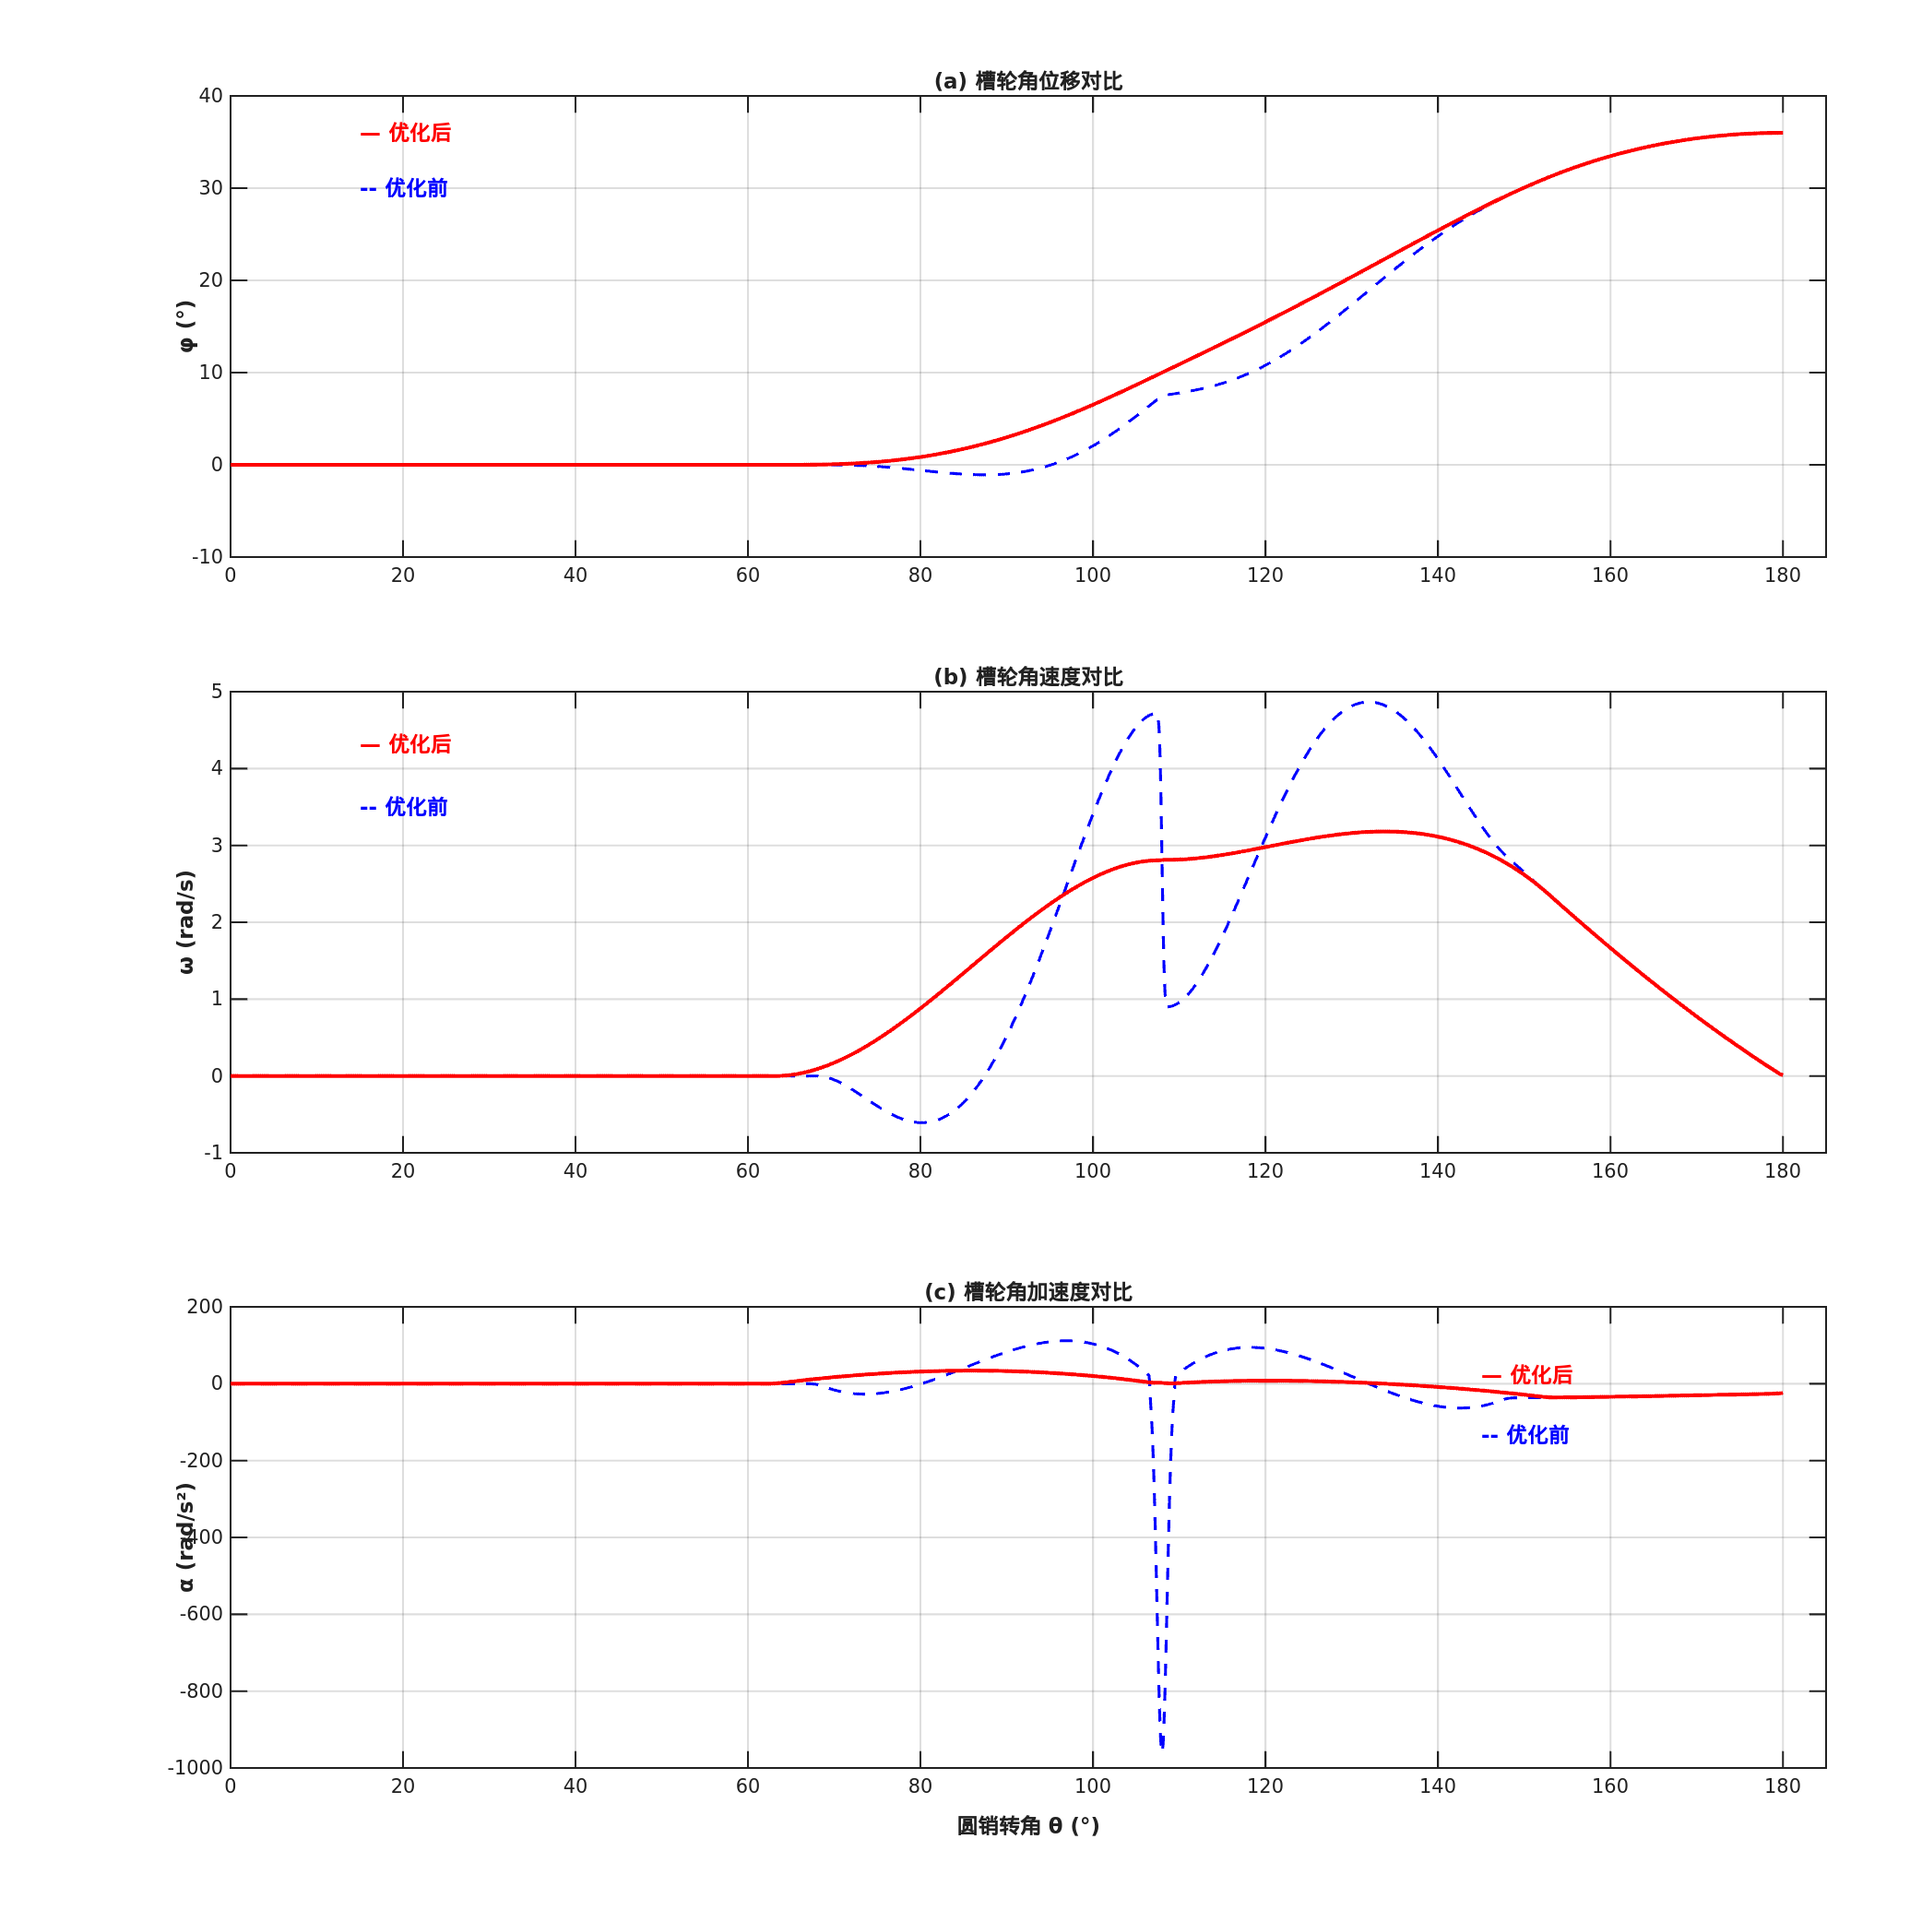
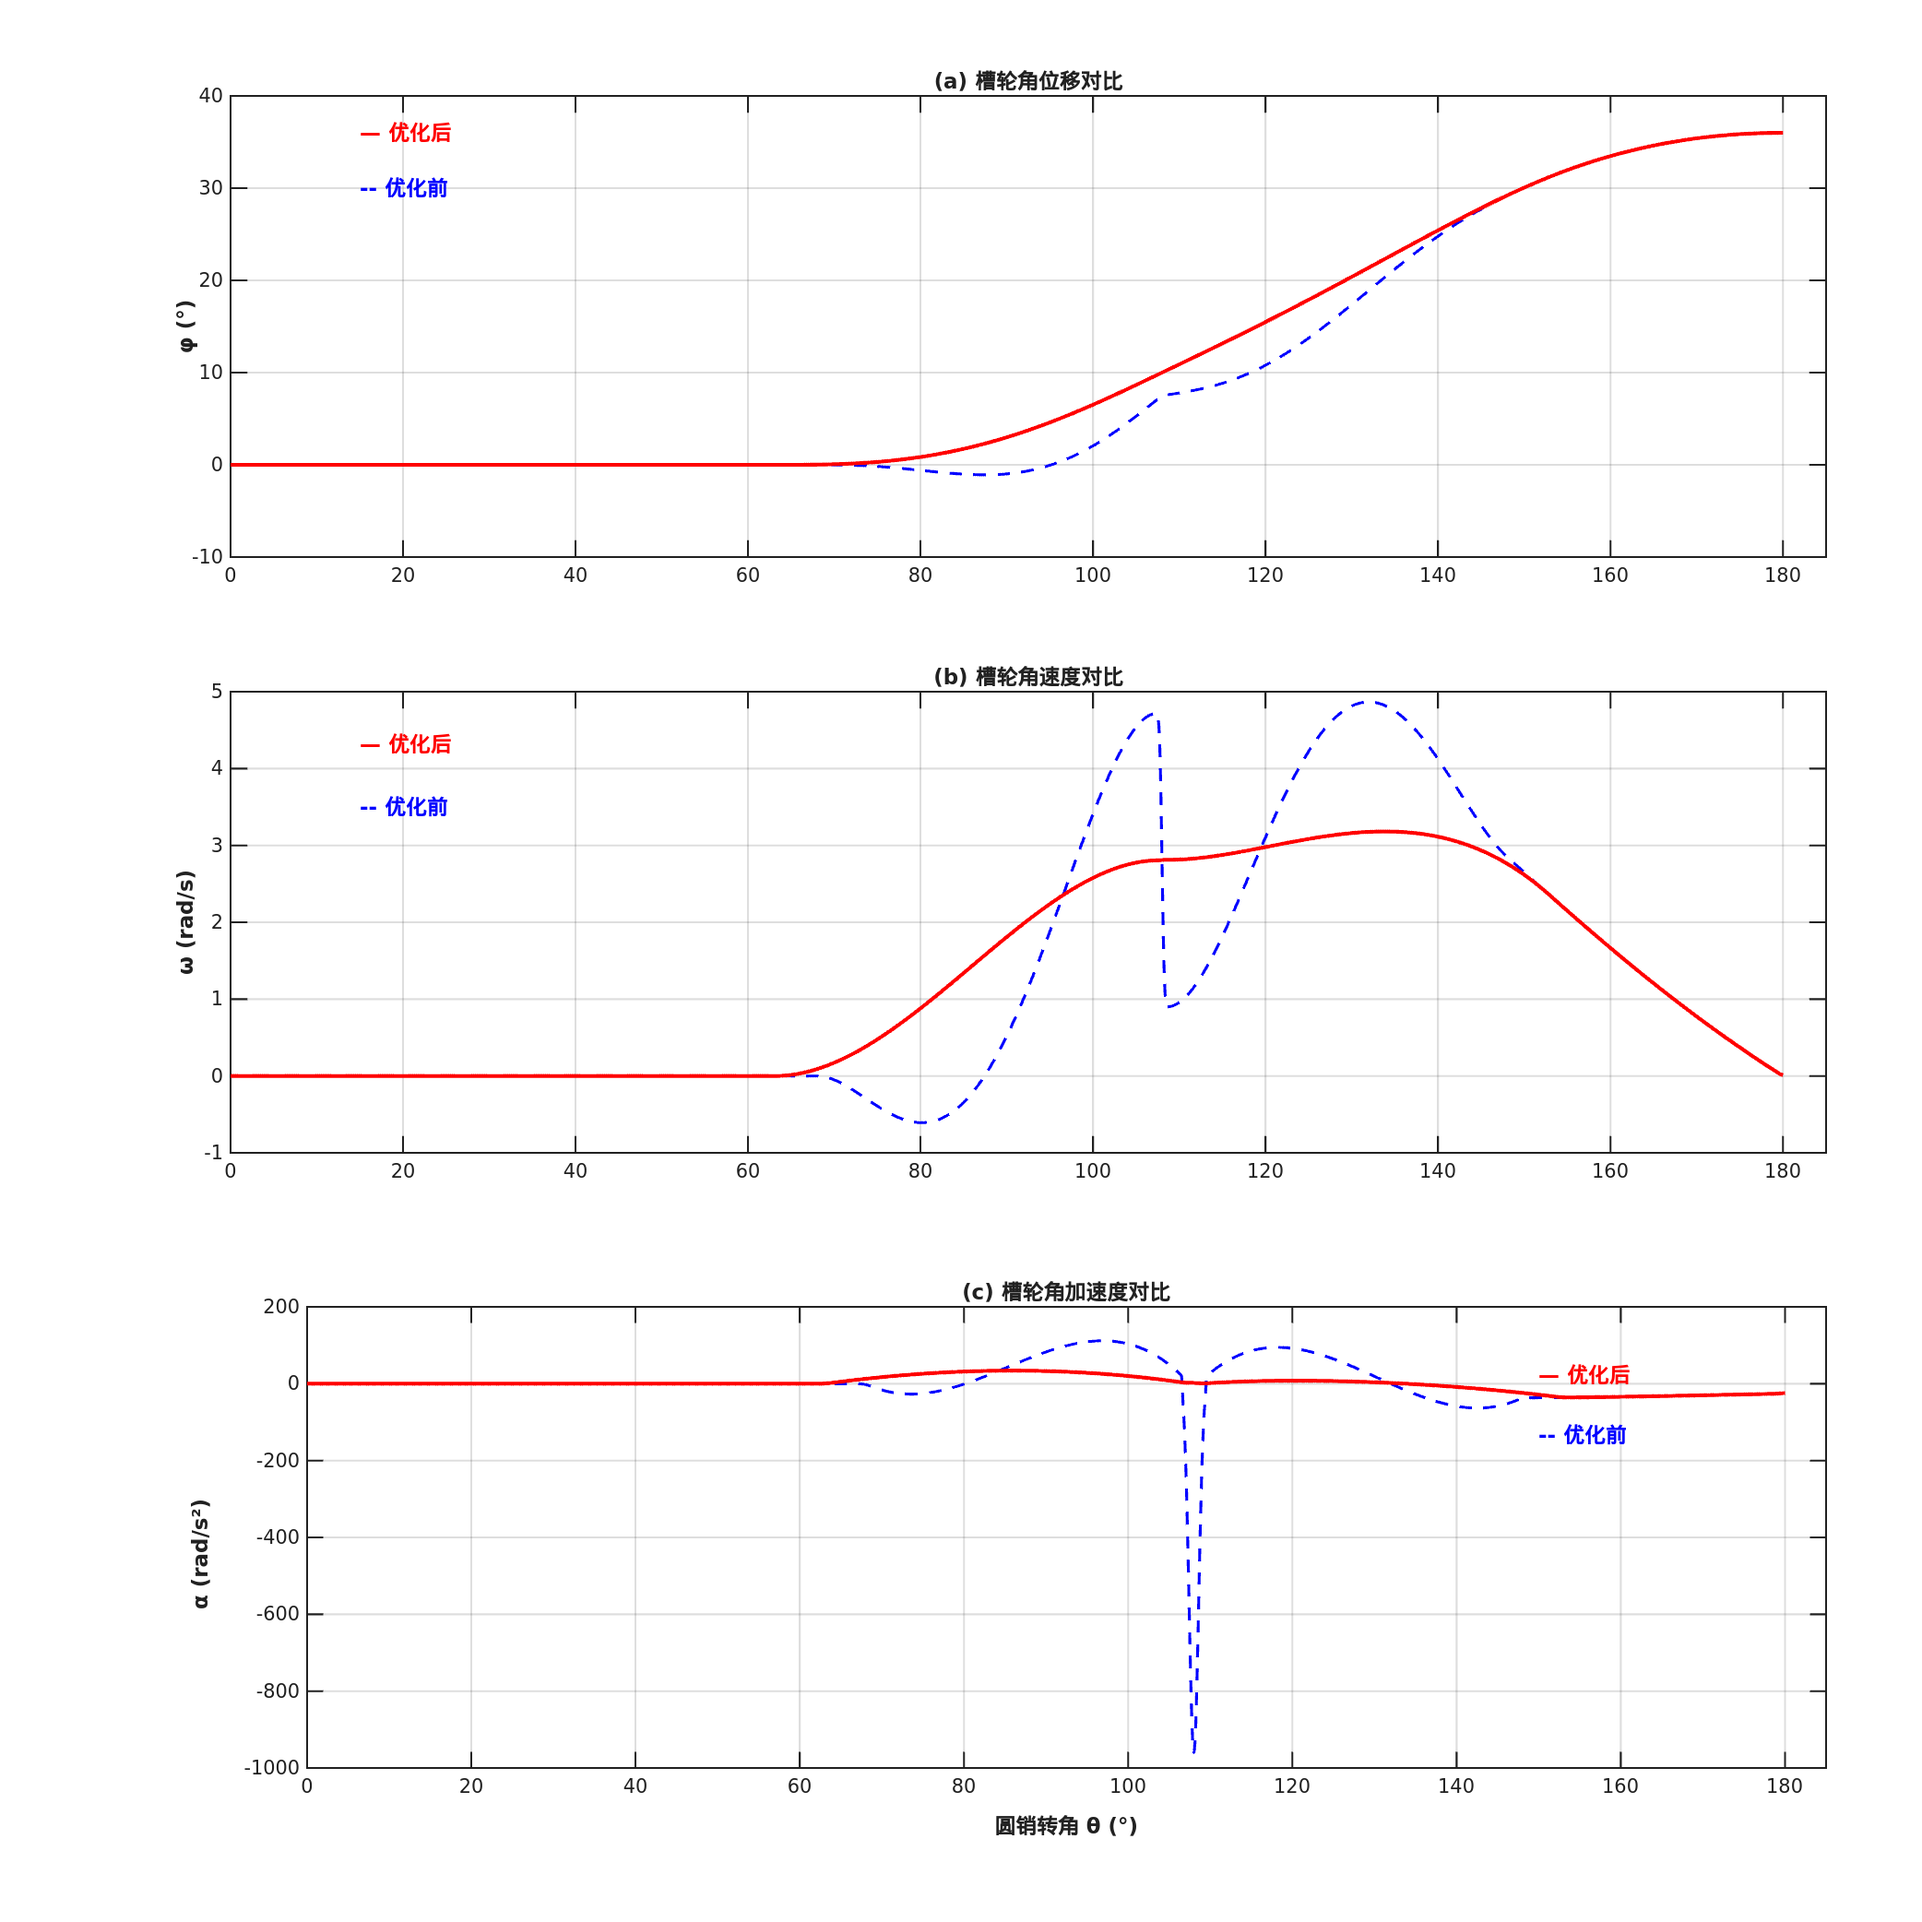
修复对比图Y轴标签和刻度重叠问题

diff --git a/.ipynb_checkpoints/run_optimization-checkpoint.m b/.ipynb_checkpoints/run_optimization-checkpoint.m
@@ -1,62 +1,97 @@
-%% 槽轮机构遗传算法优化 - 网页版专用
-% 去掉了GPU、并行计算等网页版不支持的功能
+%% 槽轮机构遗传算法优化
+% 直接在MATLAB里运行这个脚本就行
+% 会自动检测有没有GPU，有就用GPU加速
 
 clc; clear; close all;
 global ga_history_temp;
 
 fprintf('========================================\n');
-fprintf('  槽轮机构遗传算法优化 (网页版)\n');
+fprintf('  槽轮机构遗传算法优化\n');
 fprintf('========================================\n\n');
 
+% 先看看有没有GPU可以用
+gpu_available = false;
+try
+    g = gpuDevice;
+    gpu_available = true;
+    fprintf('[环境] 检测到GPU: %s (显存%.1fGB)\n', g.Name, g.TotalMemory/1e9);
+catch
+    fprintf('[环境] 没检测到GPU，用CPU跑\n');
+end
+
 % 设置参数范围
+% 4个优化变量: G点偏转角、输入行程、速度边界、加速度边界
 lb = [2,  25, -60, 1];    % 下限
 ub = [10, 45, -5,  30];   % 上限
 
-% GA参数（和GPU版一致）
-PopSize = 50;        % 种群大小
-MaxGen = 100;        % 迭代次数
-CrossFrac = 0.9;
-MutRate = 0.05;
+% 遗传算法的参数，按论文表8设的
+PopSize = 50;        % 种群大小，就是每一代有多少个个体
+MaxGen = 100;        % 最多跑100代
+CrossFrac = 0.9;     % 交叉概率90%
+MutRate = 0.05;      % 变异概率5%
 NumRuns = 4;         % 跑4次取最好的
 
-fprintf('GA参数: 种群=%d, 迭代=%d\n', PopSize, MaxGen);
+fprintf('\nGA参数: 种群=%d, 迭代=%d, 交叉=%.2f, 变异=%.2f\n', ...
+    PopSize, MaxGen, CrossFrac, MutRate);
 fprintf('总共跑%d次\n\n', NumRuns);
 
-% 目标函数
-fitness = @(x) geneva_objective(x, false);
+% 选目标函数，有GPU就用GPU版本
+if gpu_available
+    fitness = @(x) geneva_objective_gpu(x, false, true);
+else
+    fitness = @(x) geneva_objective(x, false);
+end
 
-% GA选项（不用并行）
+% 配置GA的选项
 options = optimoptions('ga', ...
     'PopulationSize', PopSize, ...
     'MaxGenerations', MaxGen, ...
     'CrossoverFraction', CrossFrac, ...
-    'EliteCount', 2, ...
-    'FunctionTolerance', 1e-6, ...
-    'Display', 'iter', ...
-    'UseParallel', false, ...
+    'EliteCount', 2, ...           % 每代保留2个最优个体
+    'FunctionTolerance', 1e-6, ... % 收敛精度
+    'Display', 'iter', ...         % 显示迭代过程
     'OutputFcn', @ga_output_callback);
 
-% 存结果
+% 试试能不能开并行，能开就开
+try
+    if isempty(gcp('nocreate'))
+        parpool('local');
+    end
+    options = optimoptions(options, 'UseParallel', true);
+    fprintf('[并行] 并行计算已开启\n\n');
+catch
+    fprintf('[串行] 并行开不了，单线程跑\n\n');
+end
+
+% 准备存结果的变量
 all_params = zeros(NumRuns, 4);
 all_costs = zeros(NumRuns, 1);
 all_results = cell(NumRuns, 1);
 all_history = cell(NumRuns, 1);
 
-% 开始优化
+% 开始优化，跑NumRuns次
 for r = 1:NumRuns
     fprintf('>>> 第%d/%d次优化 <<<\n', r, NumRuns);
 
+    % 清空历史记录
     ga_history_temp = struct('gen', [], 'cost', []);
 
+    % 跑GA
     tic;
     [x_opt, f_opt] = ga(fitness, 4, [], [], [], [], lb, ub, [], options);
     t_elapsed = toc;
 
+    % 存结果
     all_params(r,:) = x_opt;
     all_costs(r) = f_opt;
     all_history{r} = ga_history_temp;
 
-    [~, res] = geneva_objective(x_opt, true);
+    % 拿详细数据，画图要用
+    if gpu_available
+        [~, res] = geneva_objective_gpu(x_opt, true, true);
+    else
+        [~, res] = geneva_objective(x_opt, true);
+    end
     all_results{r} = res;
 
     fprintf('完成! 用时%.1f秒, 目标值=%.2f\n', t_elapsed, f_opt);
@@ -64,12 +99,12 @@ for r = 1:NumRuns
         x_opt(1), x_opt(2), x_opt(3), x_opt(4));
 end
 
-% 找最优
+% 找出最好的那一次
 [best_cost, best_idx] = min(all_costs);
 best_params = all_params(best_idx, :);
 best_result = all_results{best_idx};
 
-% 打印结果
+% 打印结果表格
 fprintf('\n========================================\n');
 fprintf('           优化结果汇总\n');
 fprintf('========================================\n');
@@ -100,14 +135,15 @@ fprintf('  Input_Stroke = %.2f\n', best_params(2));
 fprintf('  v_E          = %.2f\n', best_params(3));
 fprintf('  a_E          = %.2f\n', best_params(4));
 
-%% 画图
+% ========== 画图 ==========
+
+% 图1: 优化后的运动曲线
+fig1 = figure('Color','w','Position',[100 50 900 1000],'Name','优化后运动曲线');
+
 % 字体设置
 titleFontSize = 14;
 labelFontSize = 12;
 tickFontSize = 10;
-
-% 图1: 优化后运动曲线
-fig1 = figure('Color','w','Position',[100 50 900 1000],'Name','优化后运动曲线');
 
 ax1 = subplot(3,1,1);
 plot(best_result.Plot_X, best_result.Phi_Plot, 'k-', 'LineWidth', 2);
@@ -134,8 +170,8 @@ grid on; xlim([0 max(best_result.Plot_X)+5]);
 set(ax3, 'FontSize', tickFontSize, 'LineWidth', 1);
 set(ax3, 'Position', [0.15 0.08 0.80 0.24]);
 
-saveas(fig1, 'optimized_motion_web.png');
-fprintf('\n运动曲线已保存: optimized_motion_web.png\n');
+saveas(fig1, 'optimized_motion.png');
+fprintf('\n运动曲线已保存: optimized_motion.png\n');
 
 % 图2: GA收敛曲线
 fig2 = figure('Color','w','Position',[150 100 1200 750],'Name','GA收敛曲线');
@@ -146,7 +182,7 @@ positions = [0.13 0.58 0.32 0.35;
              0.58 0.10 0.32 0.35];
 
 for i = 1:NumRuns
-    ax = subplot(2, 2, i);
+    ax = subplot(2,2,i);
     h = all_history{i};
     if ~isempty(h.gen)
         plot(h.gen, h.cost/1e5, 'k-', 'LineWidth', 1.5);
@@ -159,14 +195,19 @@ for i = 1:NumRuns
     set(ax, 'Position', positions(i,:));
 end
 
-saveas(fig2, 'ga_convergence_web.png');
-fprintf('收敛曲线已保存: ga_convergence_web.png\n');
+saveas(fig2, 'ga_convergence.png');
+fprintf('收敛曲线已保存: ga_convergence.png\n');
 
 % 图3: 优化前后对比
 fprintf('\n正在生成对比图...\n');
 
+% 原始参数(my.m里的默认值)
 orig_params = [7.5, 40, -30, 9];
-[~, orig_result] = geneva_objective(orig_params, true);
+if gpu_available
+    [~, orig_result] = geneva_objective_gpu(orig_params, true, true);
+else
+    [~, orig_result] = geneva_objective(orig_params, true);
+end
 
 fig3 = figure('Color','w','Position',[200 100 1000 1000],'Name','优化前后对比');
 
@@ -202,25 +243,24 @@ xlabel('圆销转角 θ (°)', 'FontSize', labelFontSize, 'FontWeight', 'bold');
 title('(c) 槽轮角加速度对比', 'FontSize', titleFontSize, 'FontWeight', 'bold');
 grid on; xlim([0 max(best_result.Plot_X)+5]);
 ylim_val = ylim;
-text(150, ylim_val(1) + (ylim_val(2)-ylim_val(1))*0.92, '— 优化后', 'Color', 'r', 'FontSize', 11, 'FontWeight', 'bold');
-text(150, ylim_val(1) + (ylim_val(2)-ylim_val(1))*0.78, '-- 优化前', 'Color', 'b', 'FontSize', 11, 'FontWeight', 'bold');
+text(145, ylim_val(1) + (ylim_val(2)-ylim_val(1))*0.92, '— 优化后', 'Color', 'r', 'FontSize', 11, 'FontWeight', 'bold');
+text(145, ylim_val(1) + (ylim_val(2)-ylim_val(1))*0.78, '-- 优化前', 'Color', 'b', 'FontSize', 11, 'FontWeight', 'bold');
 set(ax3, 'FontSize', tickFontSize, 'LineWidth', 1);
-set(ax3, 'Position', [0.16 0.08 0.79 0.24]);
-ax3.YLabel.Position(1) = ax3.YLabel.Position(1) - 5;
+set(ax3, 'Position', [0.12 0.08 0.83 0.24]);
 
-saveas(fig3, 'optimization_compare_web.png');
-fprintf('对比图已保存: optimization_compare_web.png\n');
+saveas(fig3, 'optimization_compare.png');
+fprintf('对比图已保存: optimization_compare.png\n');
 
 % 保存数据
-save('ga_results_web.mat', 'all_params', 'all_costs', 'best_params', 'best_cost', ...
+save('ga_results.mat', 'all_params', 'all_costs', 'best_params', 'best_cost', ...
     'all_history', 'all_results', 'orig_result', 'best_result');
-fprintf('\n数据已保存: ga_results_web.mat\n');
+fprintf('\n数据已保存: ga_results.mat\n');
 
 fprintf('\n========================================\n');
 fprintf('搞定!\n');
 fprintf('========================================\n');
 
-%% GA回调函数
+% GA的回调函数，用来记录每一代的最优值
 function [state, options, optchanged] = ga_output_callback(options, state, flag)
     global ga_history_temp;
     optchanged = false;
@@ -232,5 +272,6 @@ function [state, options, optchanged] = ga_output_callback(options, state, flag)
             ga_history_temp.gen(end+1) = state.Generation;
             ga_history_temp.cost(end+1) = state.Best(end);
         case 'done'
+            % 结束了，不用干啥
     end
 end

diff --git a/run_optimization.m b/run_optimization.m
@@ -243,10 +243,11 @@ xlabel('圆销转角 θ (°)', 'FontSize', labelFontSize, 'FontWeight', 'bold');
 title('(c) 槽轮角加速度对比', 'FontSize', titleFontSize, 'FontWeight', 'bold');
 grid on; xlim([0 max(best_result.Plot_X)+5]);
 ylim_val = ylim;
-text(145, ylim_val(1) + (ylim_val(2)-ylim_val(1))*0.92, '— 优化后', 'Color', 'r', 'FontSize', 11, 'FontWeight', 'bold');
-text(145, ylim_val(1) + (ylim_val(2)-ylim_val(1))*0.78, '-- 优化前', 'Color', 'b', 'FontSize', 11, 'FontWeight', 'bold');
+text(150, ylim_val(1) + (ylim_val(2)-ylim_val(1))*0.92, '— 优化后', 'Color', 'r', 'FontSize', 11, 'FontWeight', 'bold');
+text(150, ylim_val(1) + (ylim_val(2)-ylim_val(1))*0.78, '-- 优化前', 'Color', 'b', 'FontSize', 11, 'FontWeight', 'bold');
 set(ax3, 'FontSize', tickFontSize, 'LineWidth', 1);
-set(ax3, 'Position', [0.12 0.08 0.83 0.24]);
+set(ax3, 'Position', [0.16 0.08 0.79 0.24]);
+ax3.YLabel.Position(1) = ax3.YLabel.Position(1) - 5;
 
 saveas(fig3, 'optimization_compare.png');
 fprintf('对比图已保存: optimization_compare.png\n');
